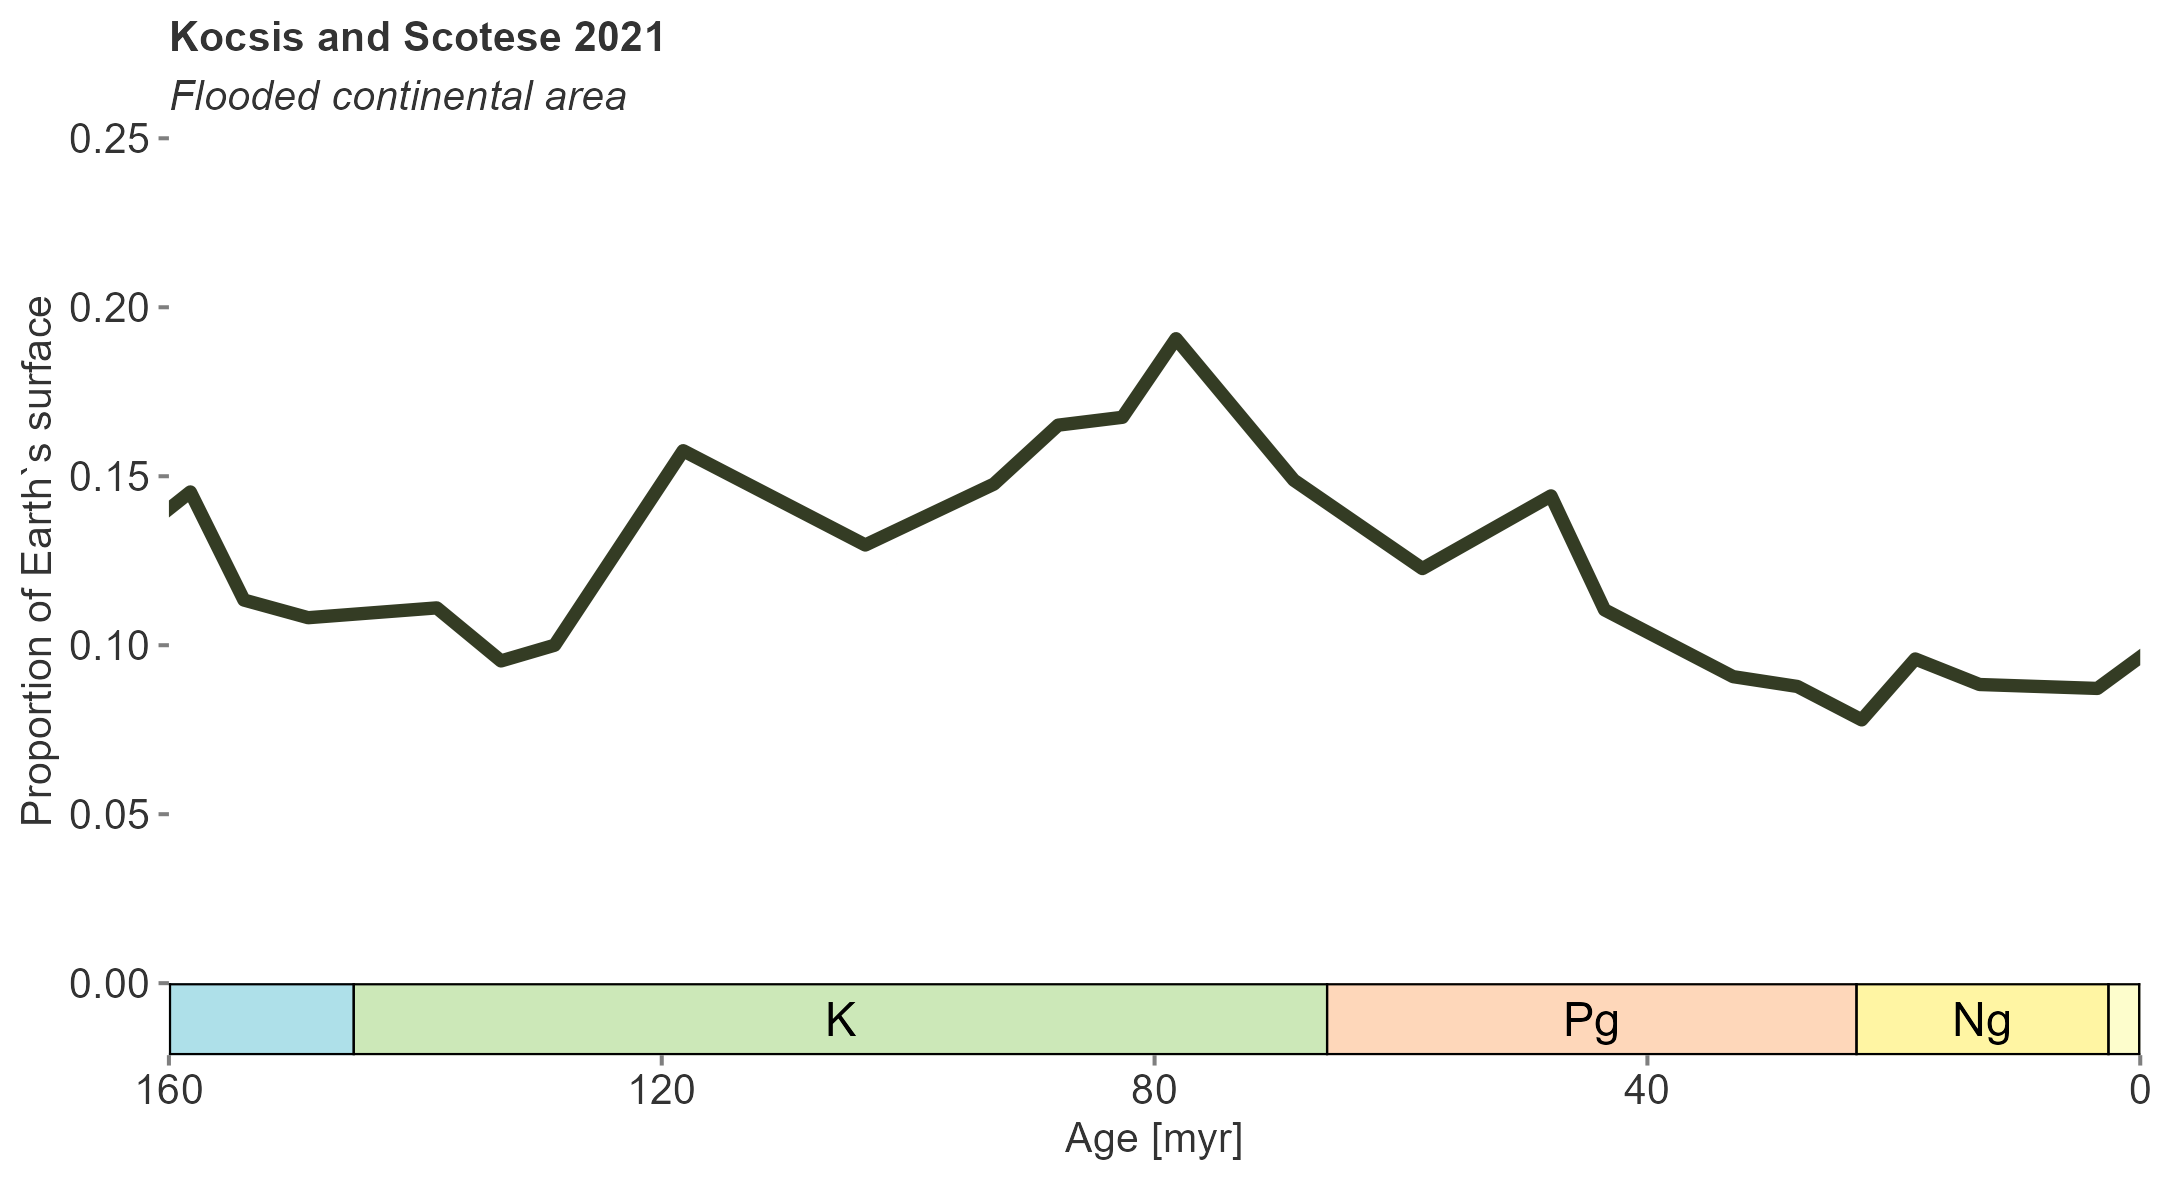
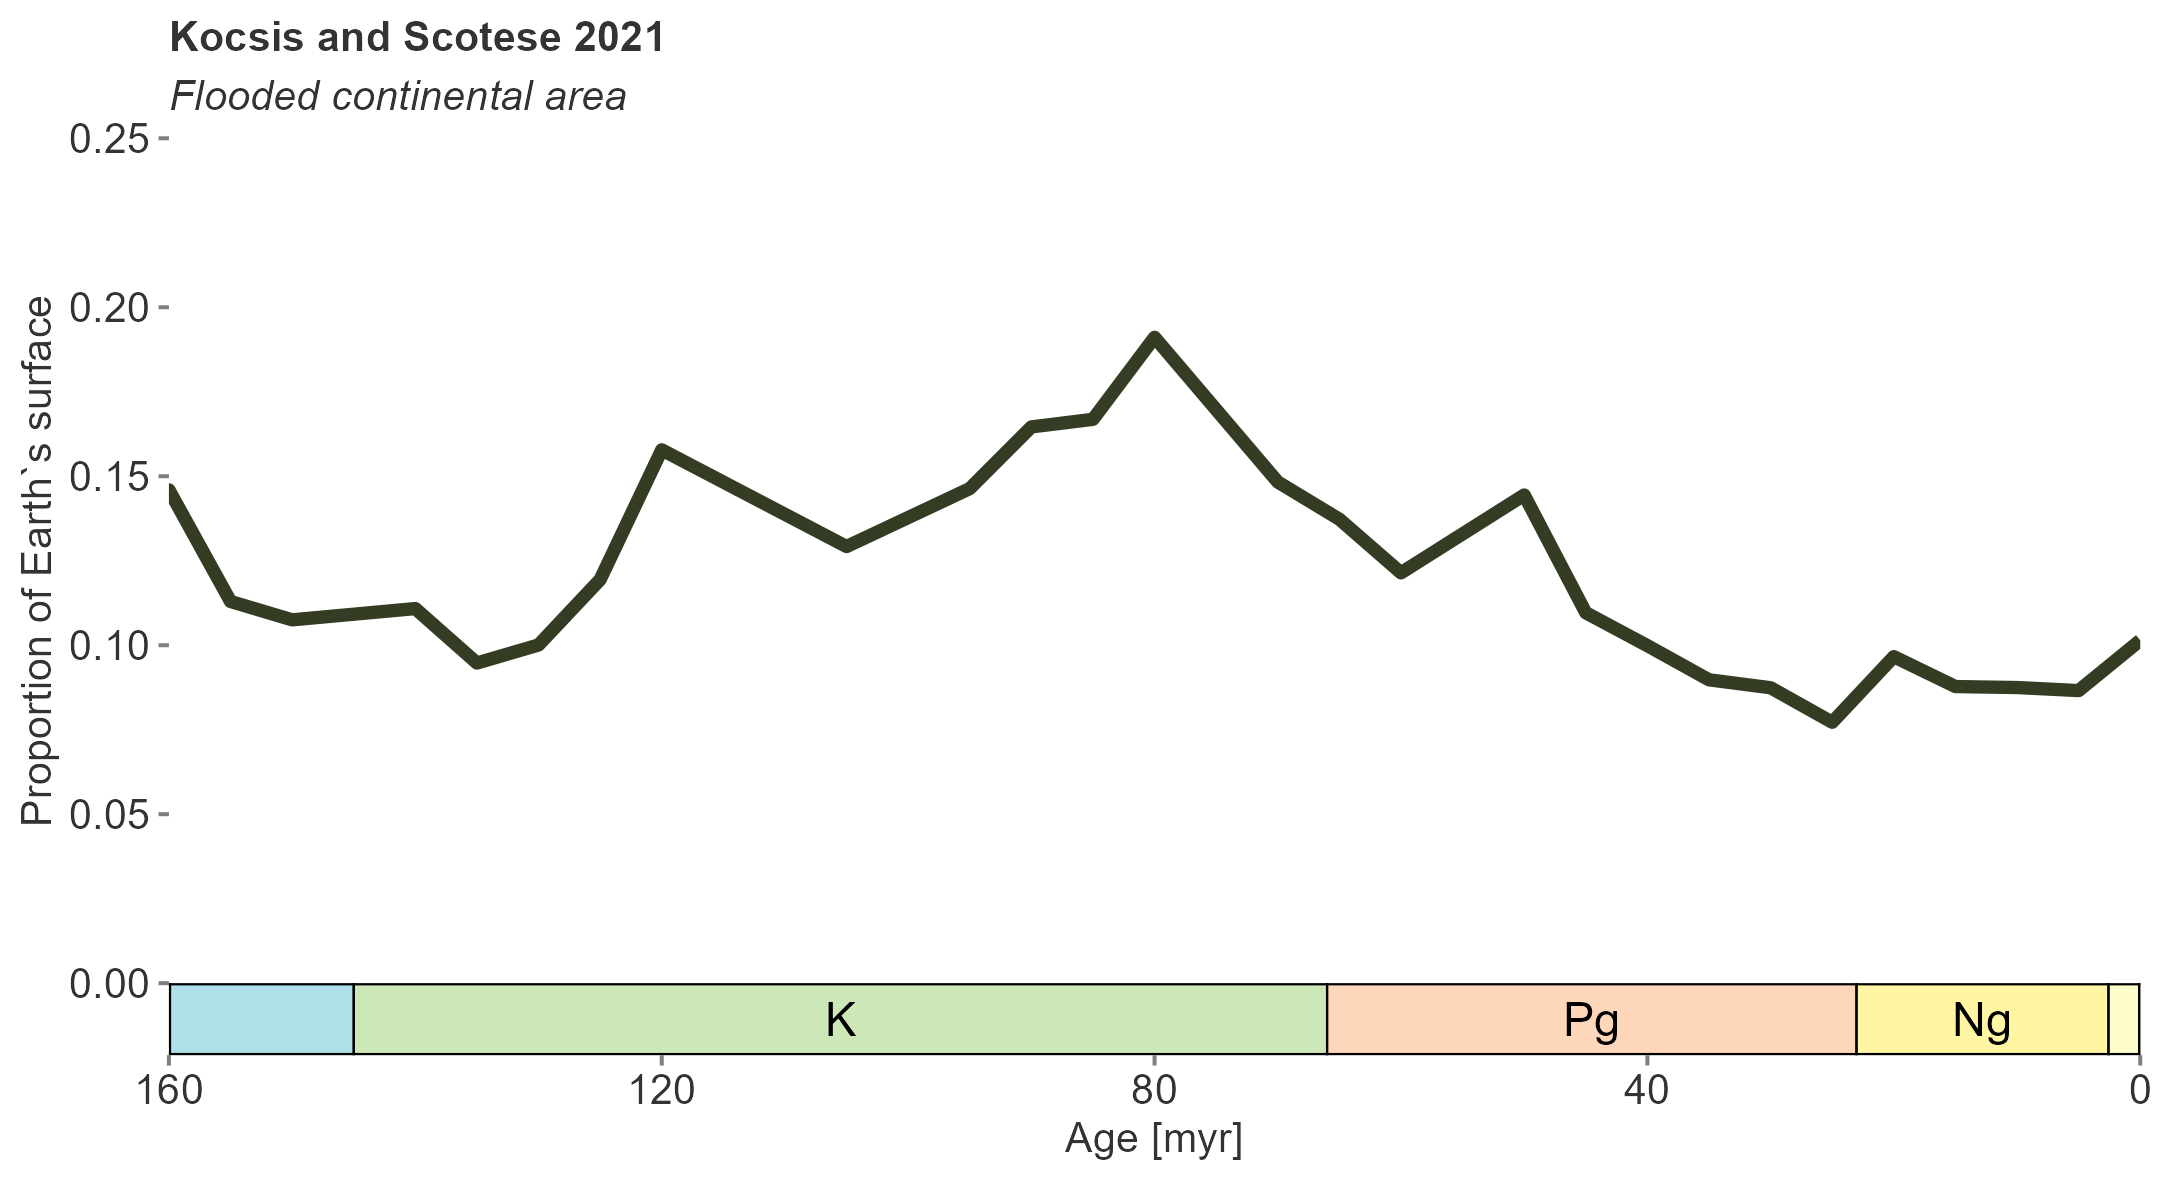
add data from Adam

diff --git a/data/README.md b/data/README.md
@@ -24,6 +24,6 @@
 - **outcrop_full.rds** [Wall, Ivany, Wilkinson 2009](https://www.cambridge.org/core/journals/paleobiology/article/abs/revisiting-raup-exploring-the-influence-of-outcrop-area-on-diversity-in-light-of-modern-samplestandardization-techniques/A1681A7CDCB94EEC7C34161A80E8E4CB) taken from WebPlotDigitizer
 
 ## Shelf area
-- **cont_area_full.rds** [Kocsis and Scotese 2021](https://www.sciencedirect.com/science/article/pii/S0012825220305092), Phanerozoic flooded continental area as proportion of earths surface area, taken from WebPlotDigitizer
+- **cont_area_full.rds** [Kocsis and Scotese 2021](https://www.sciencedirect.com/science/article/pii/S0012825220305092), Phanerozoic flooded continental area as proportion of earths surface area
 - **cont_area_ceno.rds** [Miller et al 2005](https://www.science.org/doi/full/10.1126/science.1116412) Cenozoic flooded continental area (10^6 km^2), taken from WebPlotDigitizer
 	
